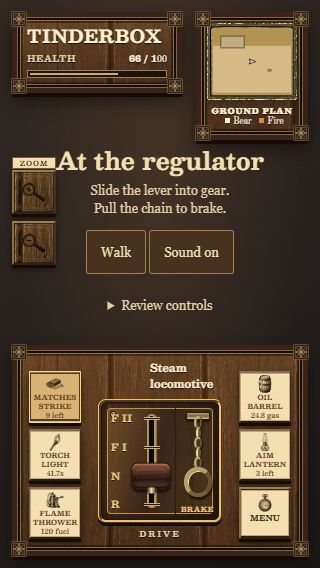
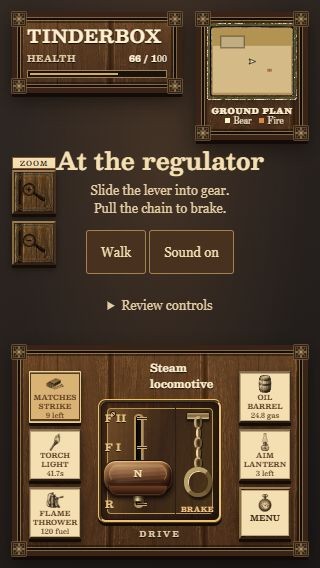
Widen the train lever grip and add a raised wooden finish

Changed region(s): [[0.3125, 0.7183, 0.5312, 0.8979]]

diff --git a/src/ui/train-control.css b/src/ui/train-control.css
@@ -2,7 +2,7 @@
   position:relative; flex:none; padding:0; border:3px ridge #9d7c45; border-radius:8px;
   background:linear-gradient(110deg,#4b2a18d9,#21140ce8),var(--wood-grain);
   box-shadow:0 3px 0 #140c07,inset 0 0 0 1px #1e130b,inset 0 0 12px #0b0807b3;
-  color:#f5dfac; isolation:isolate; touch-action:none; user-select:none;
+  color:#f5dfac; isolation:isolate; overflow:hidden; touch-action:none; user-select:none;
 }
 .tb-train-plate { position:absolute; inset:6px; border:1px solid #ba9550; border-radius:4px; background:linear-gradient(105deg,#a1743770,#34261c66 48%,#c9973933); pointer-events:none; }
 .tb-train-plate::before,.tb-train-plate::after { content:''; position:absolute; width:4px; height:4px; border-radius:50%; background:linear-gradient(45deg,#bd9b60 40%,#382b1a 44% 56%,#c9ae79 60%); box-shadow:0 0 0 1px #20190f; top:3px; }
@@ -11,13 +11,45 @@
 .tb-train-lever:active { cursor:grabbing; }
 .tb-train-lever:focus-visible { outline:2px solid #fff0bd; outline-offset:-4px; border-radius:6px; }
 .tb-train-gate { position:absolute; inset:16px 0; pointer-events:none; }
-.tb-train-gate::before { content:''; position:absolute; left:62%; top:-4px; bottom:-4px; width:9px; border:2px solid #b49257; border-radius:7px; background:#100f0e; box-shadow:inset 2px 0 3px #000,1px 0 0 #efd49c66; }
+.tb-train-gate::before { content:''; position:absolute; left:calc(50% - 4.5px); top:-4px; bottom:-4px; width:9px; border:2px solid #b49257; border-radius:7px; background:#100f0e; box-shadow:inset 2px 0 3px #000,1px 0 0 #efd49c66; }
 .tb-train-stop { position:absolute; left:0; right:0; top:var(--stop); height:1px; }
-.tb-train-stop>b { position:absolute; left:10px; top:0; transform:translateY(-50%); font:700 10px/1 var(--label); letter-spacing:.2px; color:#e8c985; text-shadow:0 1px #25170d; }
-.tb-train-stop>i { position:absolute; top:-1px; left:calc(62% - 3px); width:16px; height:3px; border-block:1px solid #cfad6f; background:#1e1a13; }
-.tb-train-knob { position:absolute; top:var(--position,66.666%); left:calc(62% - 16px); width:40px; height:27px; transform:translateY(-50%); border:1px solid #24150d; border-radius:7px 7px 8px 8px; background:linear-gradient(#8d5740,#3b2019 48%,#211411 65%,#6d412d); box-shadow:0 3px 2px #0009,inset 0 1px 1px #e0ac6a99,inset 0 -2px 2px #160d09; transition:top 95ms cubic-bezier(.25,1.5,.6,1); }
-.tb-train-knob::before { content:''; position:absolute; inset:5px 4px; border-radius:6px; border-top:1px solid #e3bc783d; background:repeating-linear-gradient(176deg,#d7a16914 0 1px,transparent 2px 4px); }
-.tb-train-knob>i { position:absolute; left:16px; bottom:-5px; width:7px; height:6px; background:linear-gradient(90deg,#61513a,#f0d9a1,#655335); box-shadow:0 1px 1px #0008; z-index:-1; }
+.tb-train-stop>b { position:absolute; left:4px; top:0; transform:translateY(-50%); font:700 10px/1 var(--label); letter-spacing:.2px; color:#e8c985; text-shadow:0 1px #25170d; }
+.tb-train-stop>i { position:absolute; top:-1px; left:calc(50% - 1px); width:10px; height:3px; border-block:1px solid #cfad6f; background:#1e1a13; }
+.tb-train-knob {
+  position:absolute; top:var(--position,66.666%); left:50%;
+  width:80px; max-width:calc(100% - 4px); height:32px;
+  transform:translate(-50%,-50%); border:1px solid #2b170e; border-radius:13px;
+  background:
+    radial-gradient(ellipse at 24% 8%,#f6d7a055,transparent 58%),
+    linear-gradient(#b27b49 0%,#86512f 19%,#61351f 48%,#321a10 75%,#6c3d22 100%);
+  box-shadow:0 7px 5px #08050399,0 2px 1px #120a06,
+    inset 0 1px 1px #f9db9ba6,inset 2px 0 3px #f3bd7540,inset -3px -3px 4px #1d0e08;
+  transition:top 95ms cubic-bezier(.25,1.5,.6,1);
+}
+.tb-train-knob::before {
+  content:'N'; position:absolute; inset:3px 5px 8px; display:grid; place-items:center;
+  border:1px solid #e9bf784d; border-bottom-color:#25130c66; border-radius:10px;
+  background:linear-gradient(#f6d6a02b,#371b0e14),
+    repeating-linear-gradient(176deg,#edbd7614 0 1px,transparent 2px 4px);
+  color:#ffe4ac; font:700 9px/1 var(--label); letter-spacing:.5px;
+  text-shadow:0 1px 1px #211006,0 -1px #633b235c;
+  box-shadow:inset 0 2px 2px #f4d69a26;
+}
+.tb-train-control[data-gear="0"] .tb-train-knob::before { content:'F II'; }
+.tb-train-control[data-gear="1"] .tb-train-knob::before { content:'F I'; }
+.tb-train-control[data-gear="3"] .tb-train-knob::before { content:'R'; }
+.tb-train-knob::after {
+  content:''; position:absolute; left:4px; right:4px; bottom:-5px; height:10px; z-index:-1;
+  border:1px solid #29160d; border-top:0; border-radius:0 0 12px 12px;
+  background:linear-gradient(#6d3d23,#32190f 78%,#1d100a);
+  box-shadow:0 2px 2px #08050380,inset 0 -1px #b47e4747;
+}
+.tb-train-knob>i {
+  position:absolute; left:50%; bottom:-11px; width:10px; height:12px;
+  transform:translateX(-50%); z-index:-2; border:1px solid #4c3822;
+  background:linear-gradient(90deg,#5c482e,#f4dfab 42%,#b79b65 65%,#49351e);
+  box-shadow:1px 2px 2px #090604b3;
+}
 .tb-ui .tb-train-brake { position:absolute; inset:0 0 0 auto; width:44px; min-height:44px; padding:0; color:#ebcb8a; background:none; border:0; border-left:1px solid #2b1c14; border-radius:0; box-shadow:none; text-shadow:0 1px #130b06; touch-action:none; }
 .tb-train-anchor { position:absolute; width:24px; height:8px; left:10px; top:10px; border:1px solid #2b1b0d; background:linear-gradient(#bda06e,#786039,#ddc494); box-shadow:0 2px 2px #0008; border-radius:2px; }
 .tb-train-chain { position:absolute; left:13px; top:16px; width:18px; height:calc(100% - 47px); transform:translateY(var(--chain-pull,0px)); transition:transform 90ms ease-out; }
@@ -29,7 +61,12 @@
 .tb-train-lever[aria-disabled=true],.tb-train-brake:disabled { opacity:.5; cursor:default; }
 .tb-train-message { position:absolute; left:50%; bottom:calc(100% + 8px); transform:translateX(-50%); width:200px; padding:7px; z-index:10; color:#fff0d0; background:#382116f5; border:1px solid #c6984c; font:12px/1.3 var(--text); text-align:center; }
 @media(max-height:580px) and (min-width:600px) {
- .tb-train-stop>b { left:4px; font-size:7.5px; }.tb-train-knob { left:calc(62% - 10px); width:27px; height:21px; }.tb-train-knob>i { left:10px; }.tb-train-gate::before { width:7px; }
+ .tb-train-stop>b { left:4px; font-size:7.5px; }
+ .tb-train-knob { width:54px; height:24px; border-radius:10px; }
+ .tb-train-knob::before { inset:2px 3px 6px; font-size:8px; border-radius:8px; }
+ .tb-train-knob::after { bottom:-4px; height:8px; border-radius:0 0 9px 9px; }
+ .tb-train-knob>i { bottom:-9px; height:10px; width:8px; }
+ .tb-train-gate::before { width:7px; left:calc(50% - 3.5px); }
 }
 @media(prefers-reduced-motion:reduce) { .tb-train-knob,.tb-train-chain { transition:none; } }
 .tb-reduced-motion .tb-train-knob,.tb-reduced-motion .tb-train-chain { transition:none; }

diff --git a/docs/ui/train-controls/README.md b/docs/ui/train-controls/README.md
@@ -2,7 +2,7 @@
 
 Candidate on `codex/steam-train-controls-ui`, based on published `c855e627bdee963e930644839a60c027a03935de`.
 
-The lever and pull-chain brake occupy the joystick's existing square. The measured phone sizes are 138 × 138 at 390 × 844, 124 × 124 at 320 × 568, and 96 × 96 at 844 × 390. The lever uses four fixed stops, F II, F I, N and R. It holds a notch until the drag crosses 62% of the distance to its neighbour. Each accepted shift produces a short locally synthesized click. Mount, snapshot refresh and boundary jitter keep the cue quiet.
+The lever and pull-chain brake occupy the joystick's existing square. The raised wooden grip is 80 px wide on the standard phone layout, twice its original 40 px width. It fits at 70 px on the narrow phone and 42 px in compact landscape. Rounded highlights, a visible lower face, a brass stem and cast shadows give it depth. The selected gear is marked on the grip. The measured phone sizes are 138 × 138 at 390 × 844, 124 × 124 at 320 × 568, and 96 × 96 at 844 × 390. The lever uses four fixed stops, F II, F I, N and R. It holds a notch until the drag crosses 62% of the distance to its neighbour. Each accepted shift produces a short locally synthesized click. Mount, snapshot refresh and boundary jitter keep the cue quiet.
 
 The selected gear stays engaged when the finger lifts. Pulling the chain applies full brake and selects neutral. Releasing it retires the original input lease, whose Nautilus policy retains neutral/full brake. The chain takes priority over an ongoing lever drag. Pause, pointer cancellation, lost capture, blur, hidden page, context change, revoked lease and disposal also retire the original input. A fresh gear selection supplies a new lease after retirement.
 
@@ -30,11 +30,11 @@ The slider supports arrows, Home for Reverse and End for Forward II. B and the f
 
 ## Checks and evidence
 
-- `node tools/check.mjs` passed 294 tests, 218 script syntax checks and 263 resolved static modules. Imported-source and art checks passed.
+- The initial functional review with `node tools/check.mjs` passed 294 tests, 218 script syntax checks and 263 resolved static modules. Imported-source and art checks passed.
 - `node --test --test-concurrency=1 tests/ui/*.test.mjs` passed all 29 focused tests.
 - The browser suite passed 117 of 117 at 390 × 844, 320 × 568, 844 × 390 and 1280 × 800. It checks the square footprint, 44 px input areas, detent hysteresis, persistent gear, independent chain pointer, refusals, original-lease cleanup and return to walking. [Results](evidence/browser-results.json)
 - The trusted mouse replay at phone size selected half forward, full forward and reverse through the intermediate stops, then pulled the brake chain. The WebAudio context ran and played six clicks across those shifts, with zero active voices after the brake. Two-finger coverage uses synthetic touch events. Physical handset review remains pending. [Input record](evidence/native-input.json)
[2 lines of base64/hex data omitted]
 
 [Phone Forward I](evidence/phone-forward.jpg) · [Narrow phone](evidence/narrow.jpg) · [Landscape](evidence/landscape.jpg)
 
